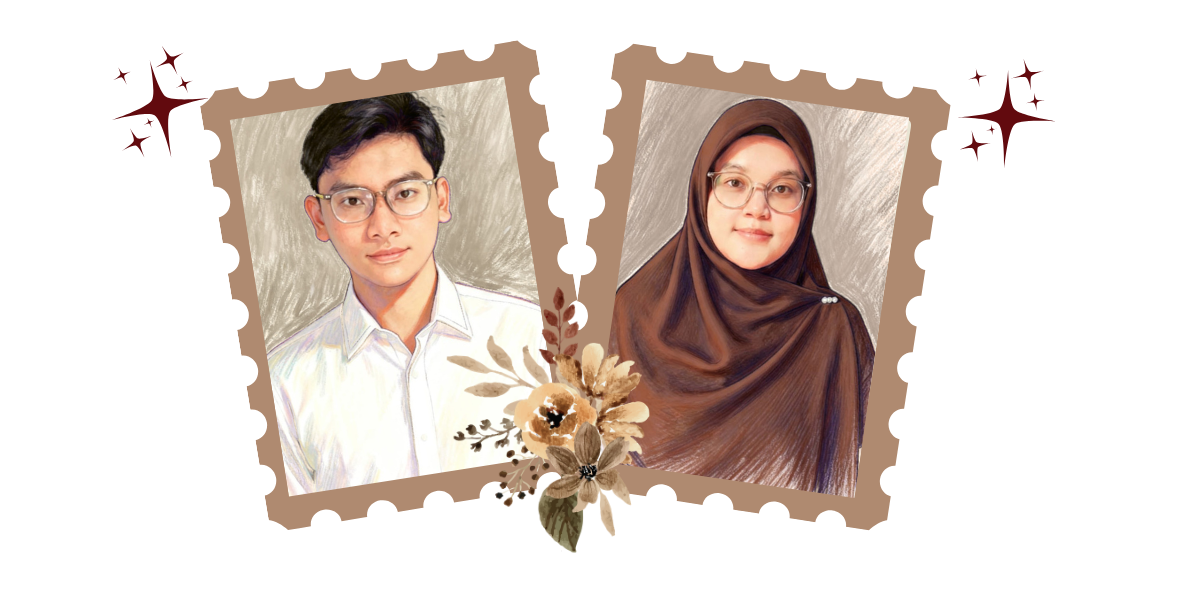
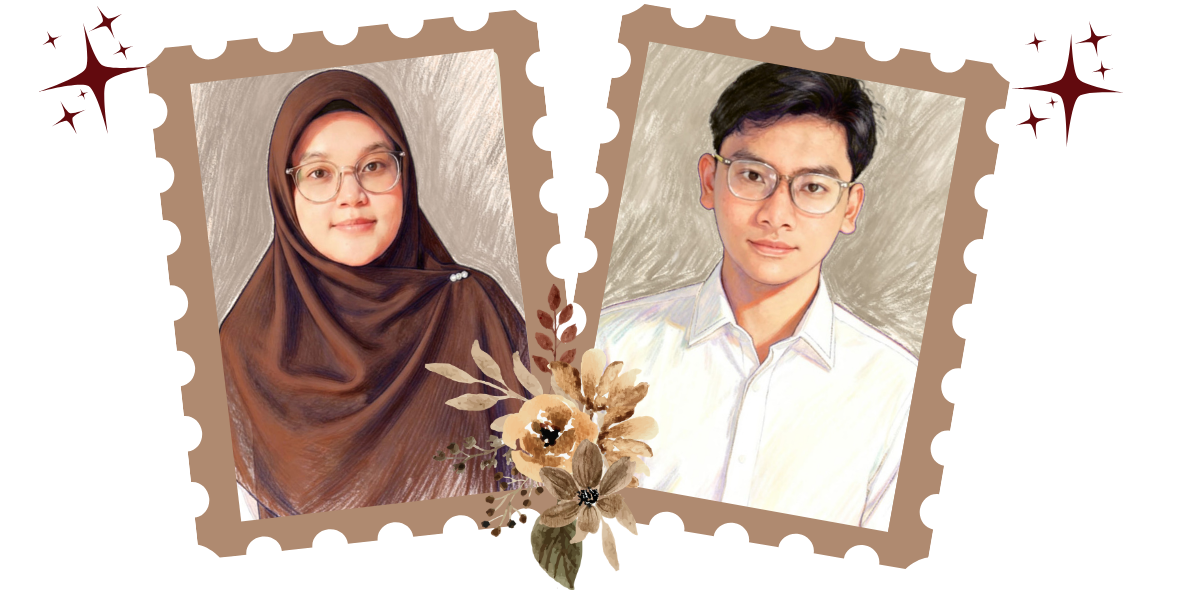
Add files via upload

diff --git a/index.html b/index.html
@@ -68,7 +68,7 @@
     </div>
 
     <h1 class="font-heading text-4xl sm:text-5xl text-brown leading-tight mb-2">
-      Fadil <span class="text-gold">&</span> Hilma
+      Hilma <span class="text-gold">&</span> Fadil
     </h1>
     <p class="text-sm tracking-widest text-brown/60 mb-8">Minggu, 11 Oktober 2026</p>
 
@@ -115,9 +115,9 @@
         <img src="assets/images/6.png" alt="Placeholder Pengantin" class="w-full h-full object-cover p-2 ">
       </div>
 
-      <h1 class="font-heading text-5xl sm:text-6xl text-brown mb-1">Fadil</h1>
+      <h1 class="font-heading text-5xl sm:text-6xl text-brown mb-1">Hilma</h1>
       <p class="font-arabic text-gold text-xl my-1">&</p>
-      <h1 class="font-heading text-5xl sm:text-6xl text-brown mb-6">Hilma</h1>
+      <h1 class="font-heading text-5xl sm:text-6xl text-brown mb-6">Fadil</h1>
 
       <div class="w-16 h-px bg-gold mx-auto mb-6"></div>
 
@@ -162,13 +162,35 @@
     <div class="islamic-pattern-bg opacity-50"></div>
     <div class="relative z-10 max-w-md mx-auto text-center mb-12" data-animate="fade-up">
       <p class="text-[11px] tracking-[0.35em] uppercase text-gold mb-2">Assalamu'alaikum Wr. Wb.</p>
-      <h2 class="font-heading text-4xl text-brown">Kedua Mempelai</h2>
       <p class="text-sm text-brown/60 mt-4 leading-relaxed">
-        Dengan memohon rahmat dan ridho Allah SWT, kami bermaksud menyelenggarakan pernikahan putra putri kami:
+        Kami mengundang Bapak/Ibu/Saudara/I untuk menghadiri acara pernikahan kami.
       </p>
     </div>
 
     <div class="relative z-10 max-w-md mx-auto space-y-8">
+            <!-- Wanita -->
+      <div class="profile-card" data-animate="fade-up">
+        <div class="w-32 h-32 mx-auto mb-4 relative">
+          <div class="absolute inset-0 rounded-full border border-gold/40"></div>
+          <img src="assets/images/5.png" alt="Mempelai Wanita" class="w-full h-full object-cover rounded-full p-1.5">
+        </div>
+        <h3 class="font-heading text-3xl text-brown mb-1">Hilma NUR’AINI, S.Pd</h3>
+        <p class="text-xs tracking-wider uppercase text-gold mb-3">Putri Ketiga</p>
+        <p class="text-sm text-brown/70 leading-relaxed">
+          Dari (Alm) Bapak Firman & Ibu Rostiawati 
+        </p>
+        <div class="flex justify-center gap-4 mt-4">
+          <a href="https://www.instagram.com/hilma.na?igsh=ZWh4c3A1M3Vwa2l2" class="social-icon"><i class="fa-brands fa-instagram"></i></a>
+        </div>
+      </div>
+
+      <!-- Divider -->
+      <div class="flex items-center justify-center gap-3">
+        <span class="w-10 h-px bg-gold/50"></span>
+        <span class="font-arabic text-gold text-xl">&</span>
+        <span class="w-10 h-px bg-gold/50"></span>
+      </div>
+
       <!-- Pria -->
       <div class="profile-card" data-animate="fade-up">
         <div class="w-32 h-32 mx-auto mb-4 relative">
@@ -185,28 +207,6 @@
         </div>
       </div>
 
-      <!-- Divider -->
-      <div class="flex items-center justify-center gap-3">
-        <span class="w-10 h-px bg-gold/50"></span>
-        <span class="font-arabic text-gold text-xl">&</span>
-        <span class="w-10 h-px bg-gold/50"></span>
-      </div>
-
-      <!-- Wanita -->
-      <div class="profile-card" data-animate="fade-up">
-        <div class="w-32 h-32 mx-auto mb-4 relative">
-          <div class="absolute inset-0 rounded-full border border-gold/40"></div>
-          <img src="assets/images/5.png" alt="Mempelai Wanita" class="w-full h-full object-cover rounded-full p-1.5">
-        </div>
-        <h3 class="font-heading text-3xl text-brown mb-1">Hilma NUR’AINI, S.Pd</h3>
-        <p class="text-xs tracking-wider uppercase text-gold mb-3">Putri Ketiga</p>
-        <p class="text-sm text-brown/70 leading-relaxed">
-          Dari (Alm) Bapak Firman & Ibu Rostiawati 
-        </p>
-        <div class="flex justify-center gap-4 mt-4">
-          <a href="https://www.instagram.com/hilma.na?igsh=ZWh4c3A1M3Vwa2l2" class="social-icon"><i class="fa-brands fa-instagram"></i></a>
-        </div>
-      </div>
     </div>
   </section>
 
@@ -406,7 +406,7 @@
       </p>
 
       <p class="font-heading text-2xl text-brown mb-1">Wassalamu'alaikum Wr. Wb.</p>
-      <p class="font-heading text-3xl text-gold mt-4">Fadil & Hilma</p>
+      <p class="font-heading text-3xl text-gold mt-4">Hilma & Fadil</p>
 
       <p class="text-[11px] text-brown/40 mt-12">© 2026 Wedding Invitation. Made with <i class="fa-solid fa-heart text-gold"></i></p>
     </div>
